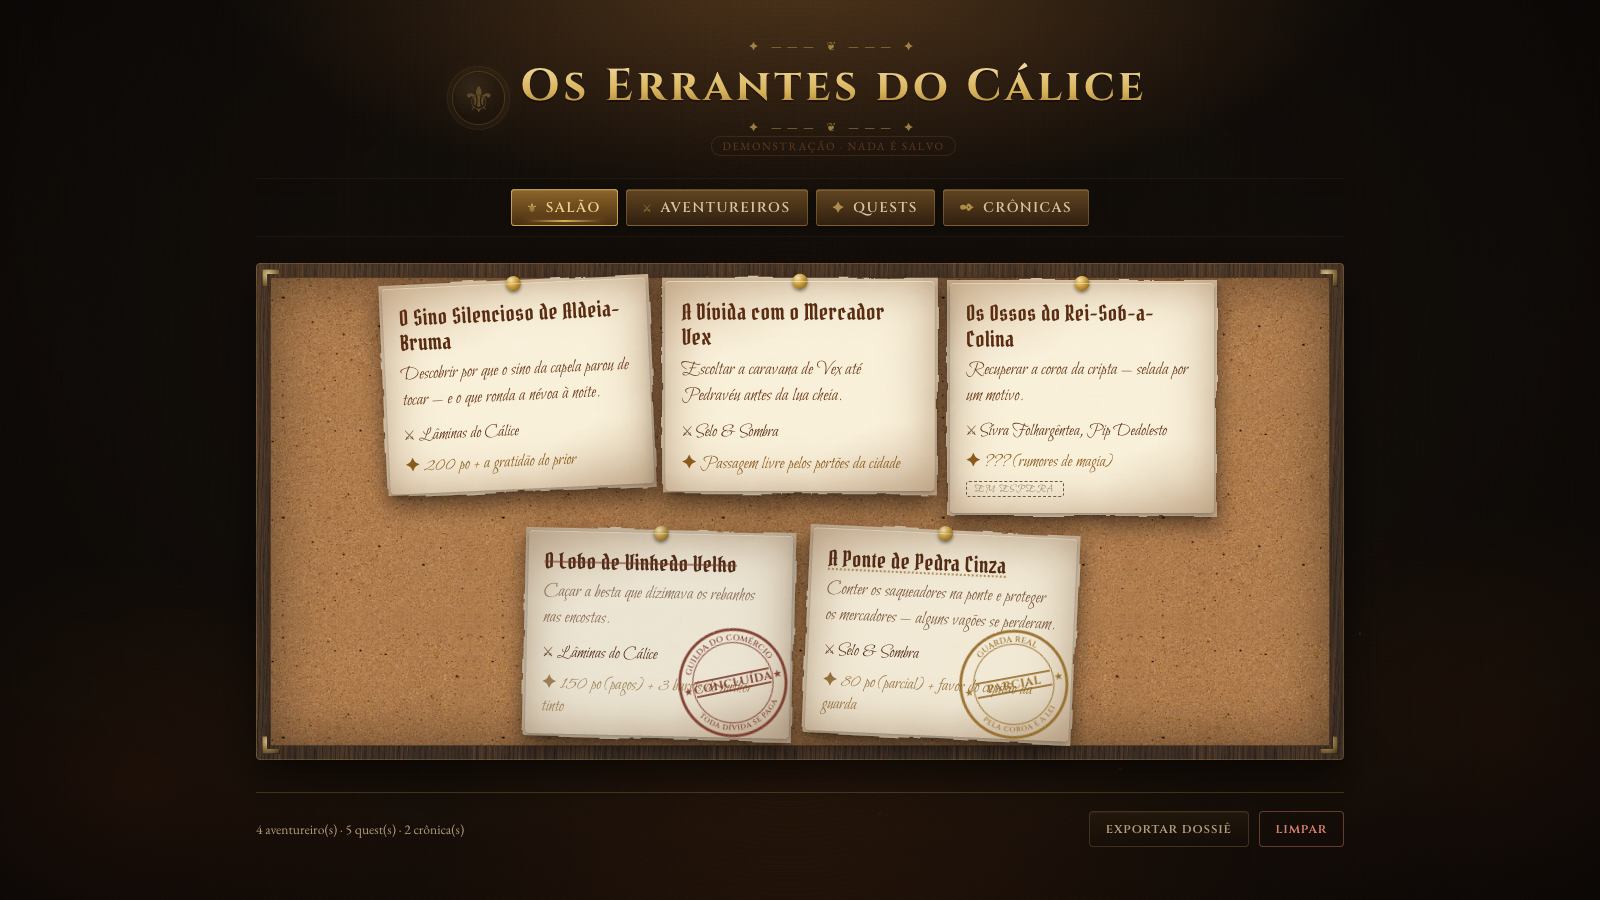
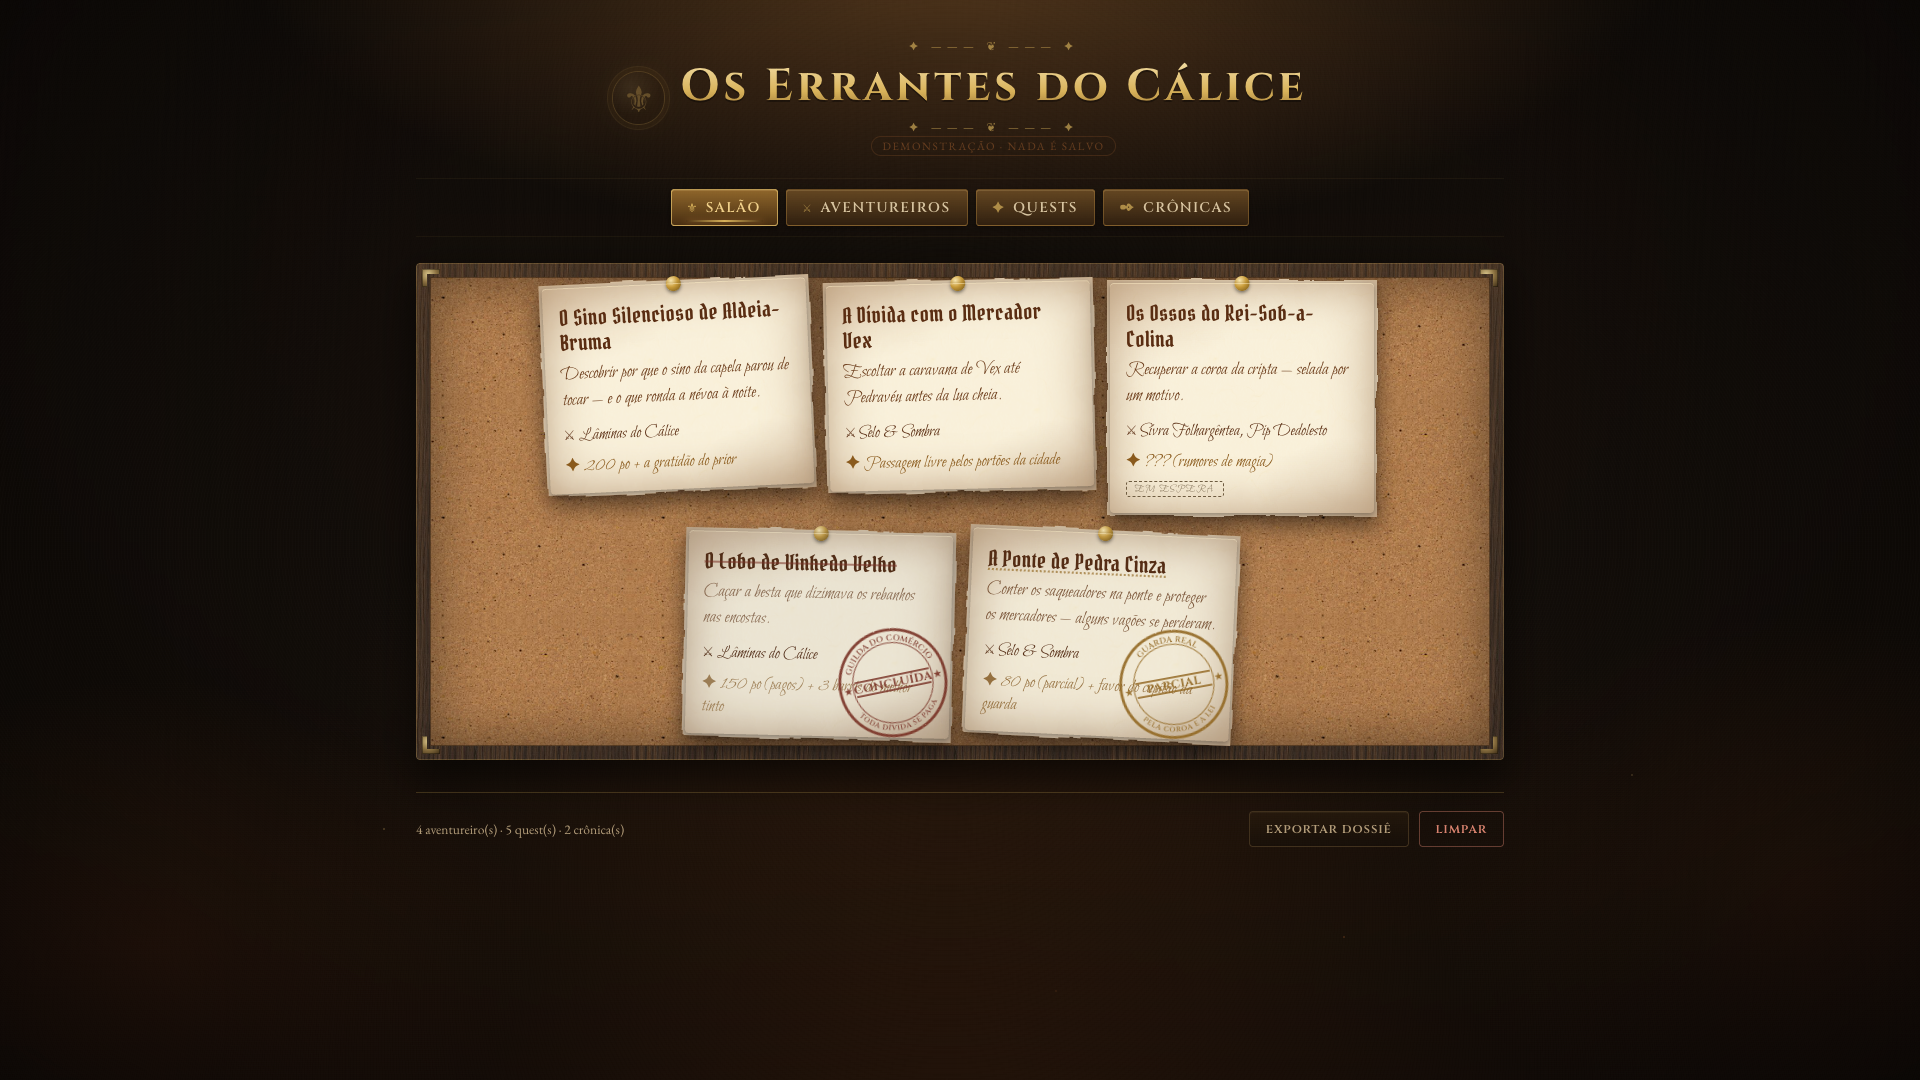
docs: 1080p screenshot, click to enlarge in README

diff --git a/README.md b/README.md
@@ -21,7 +21,9 @@ Página de demonstração no GitHub Pages:
 
 ## Screenshots
 
-![Quadro de quests da demo](docs/screenshots/briefing-overview.png)
+Clique para ver em 1080p.
+
+[<img src="docs/screenshots/briefing-overview.png" width="720" alt="Quadro de quests da demo">](docs/screenshots/briefing-overview.png)
 
 A demo roda em **modo efêmero** (build com `VITE_DEMO=true`): a party fictícia
 recarrega a cada acesso e **nada é salvo** — pode mexer à vontade.
